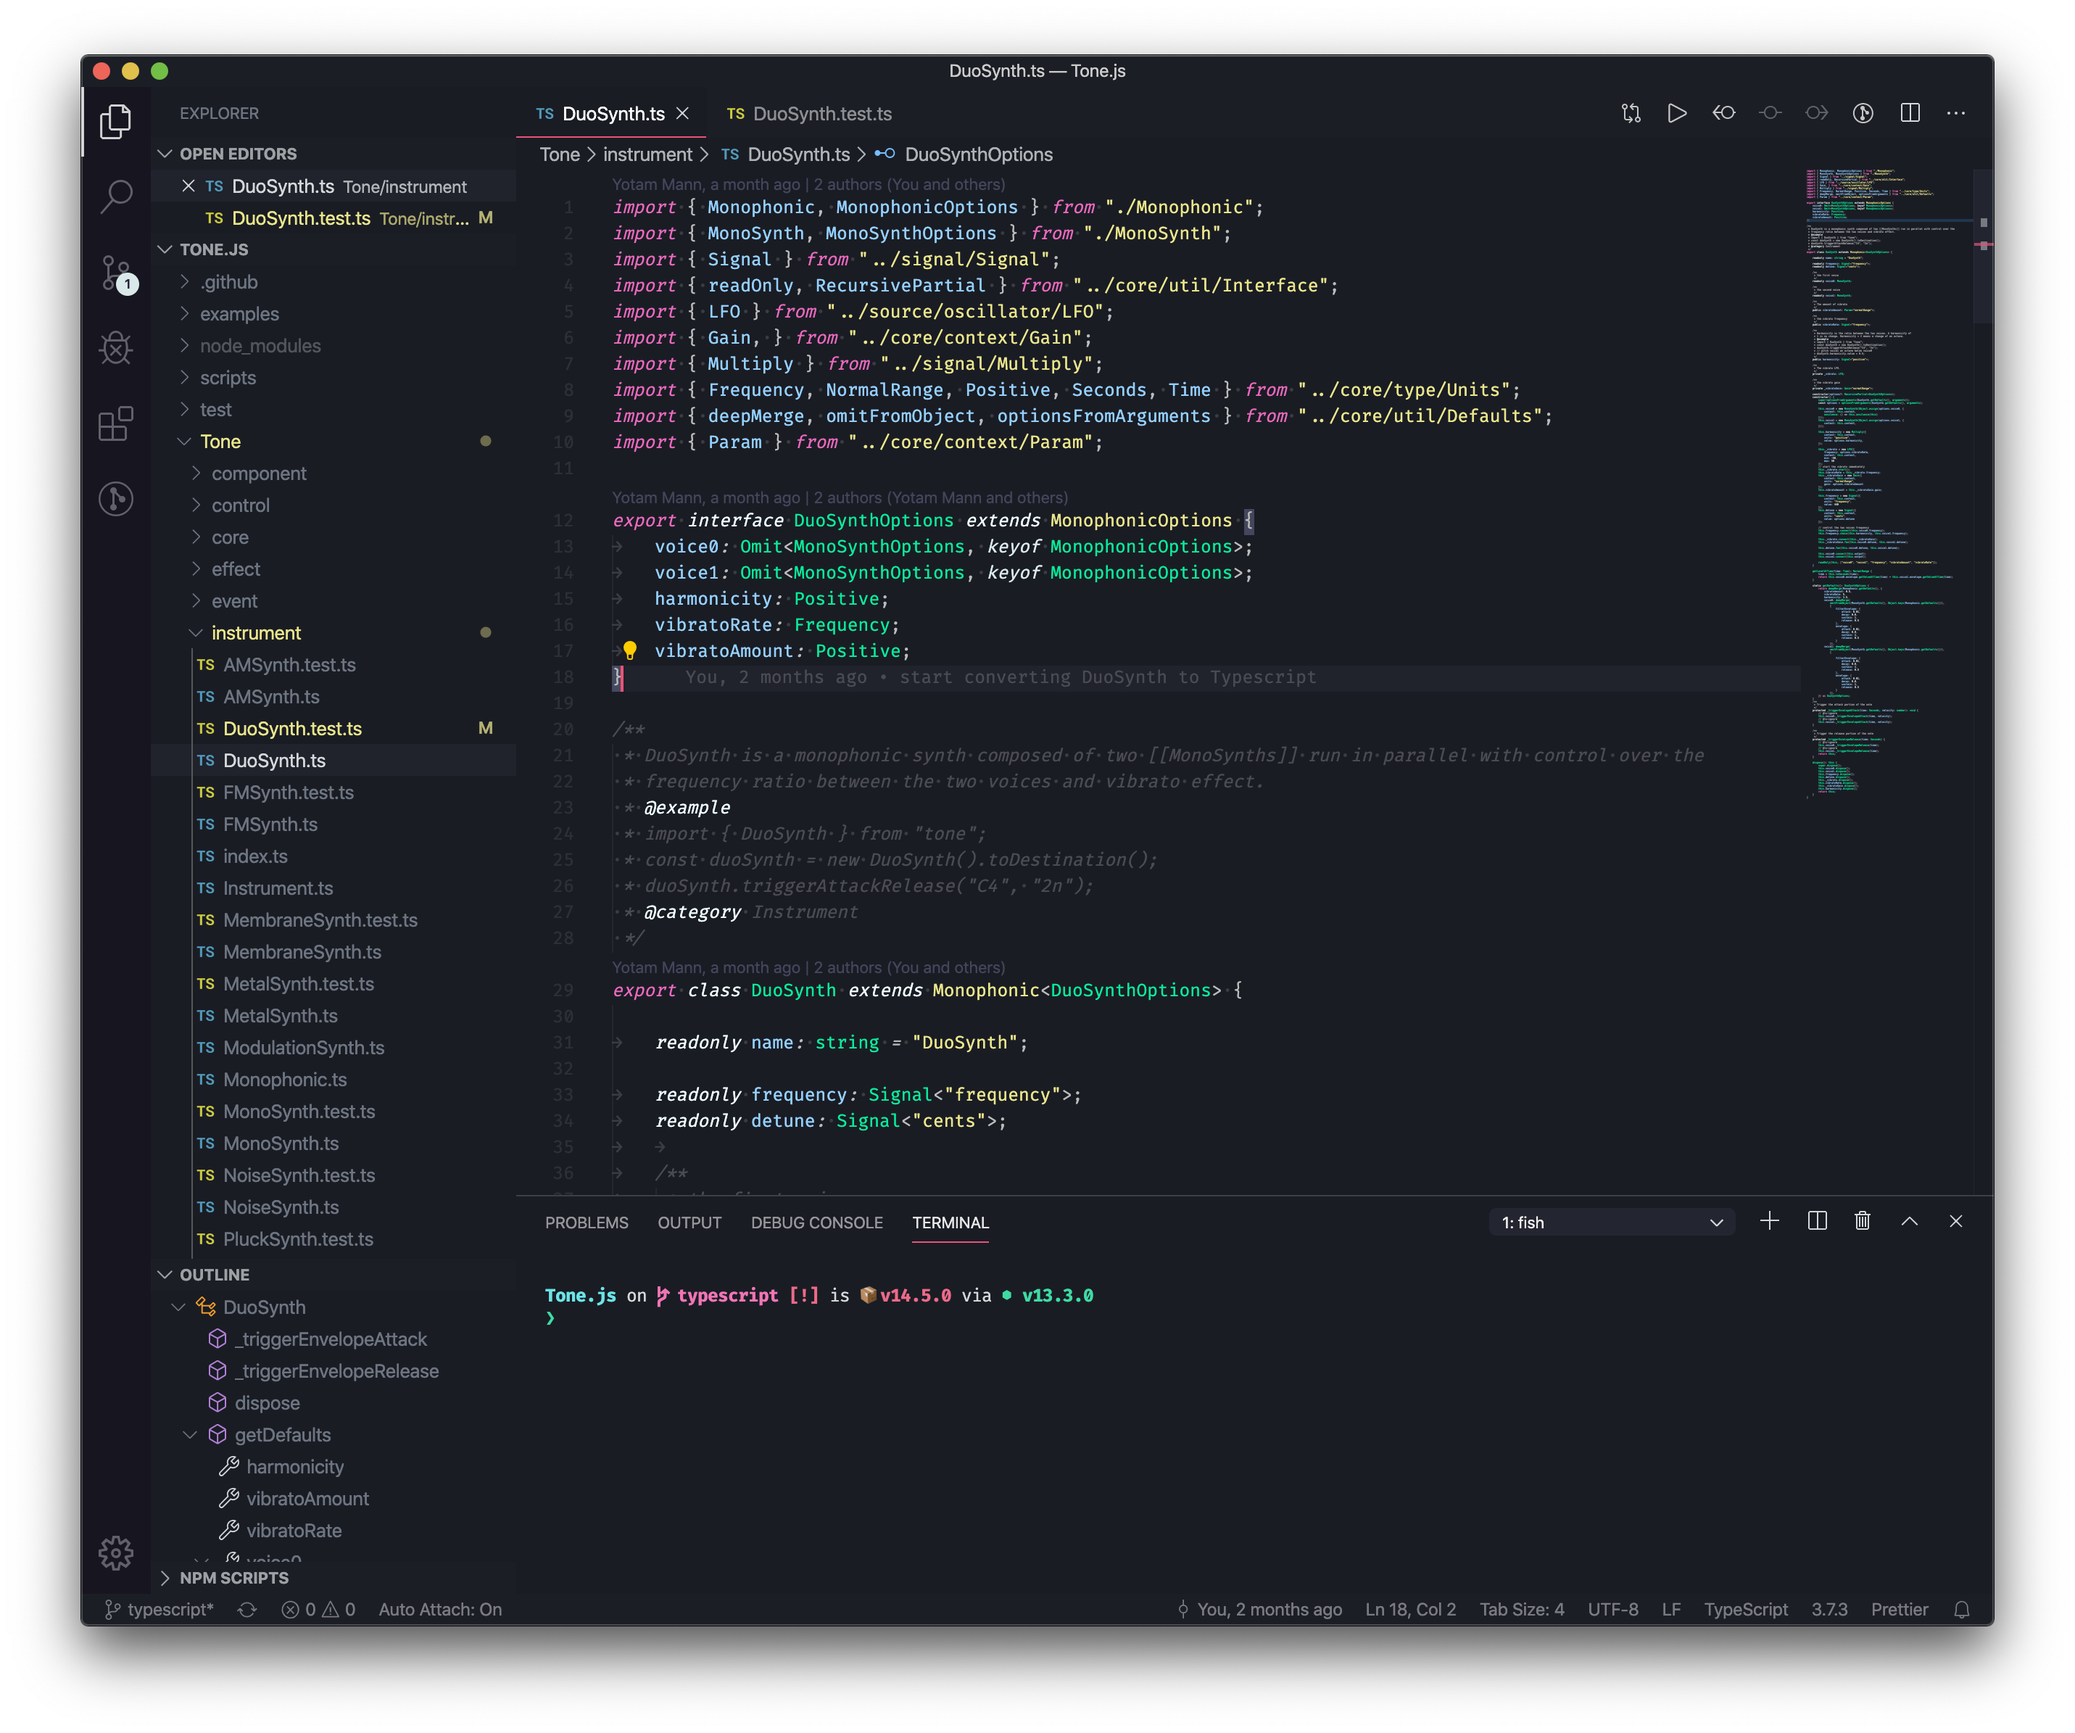
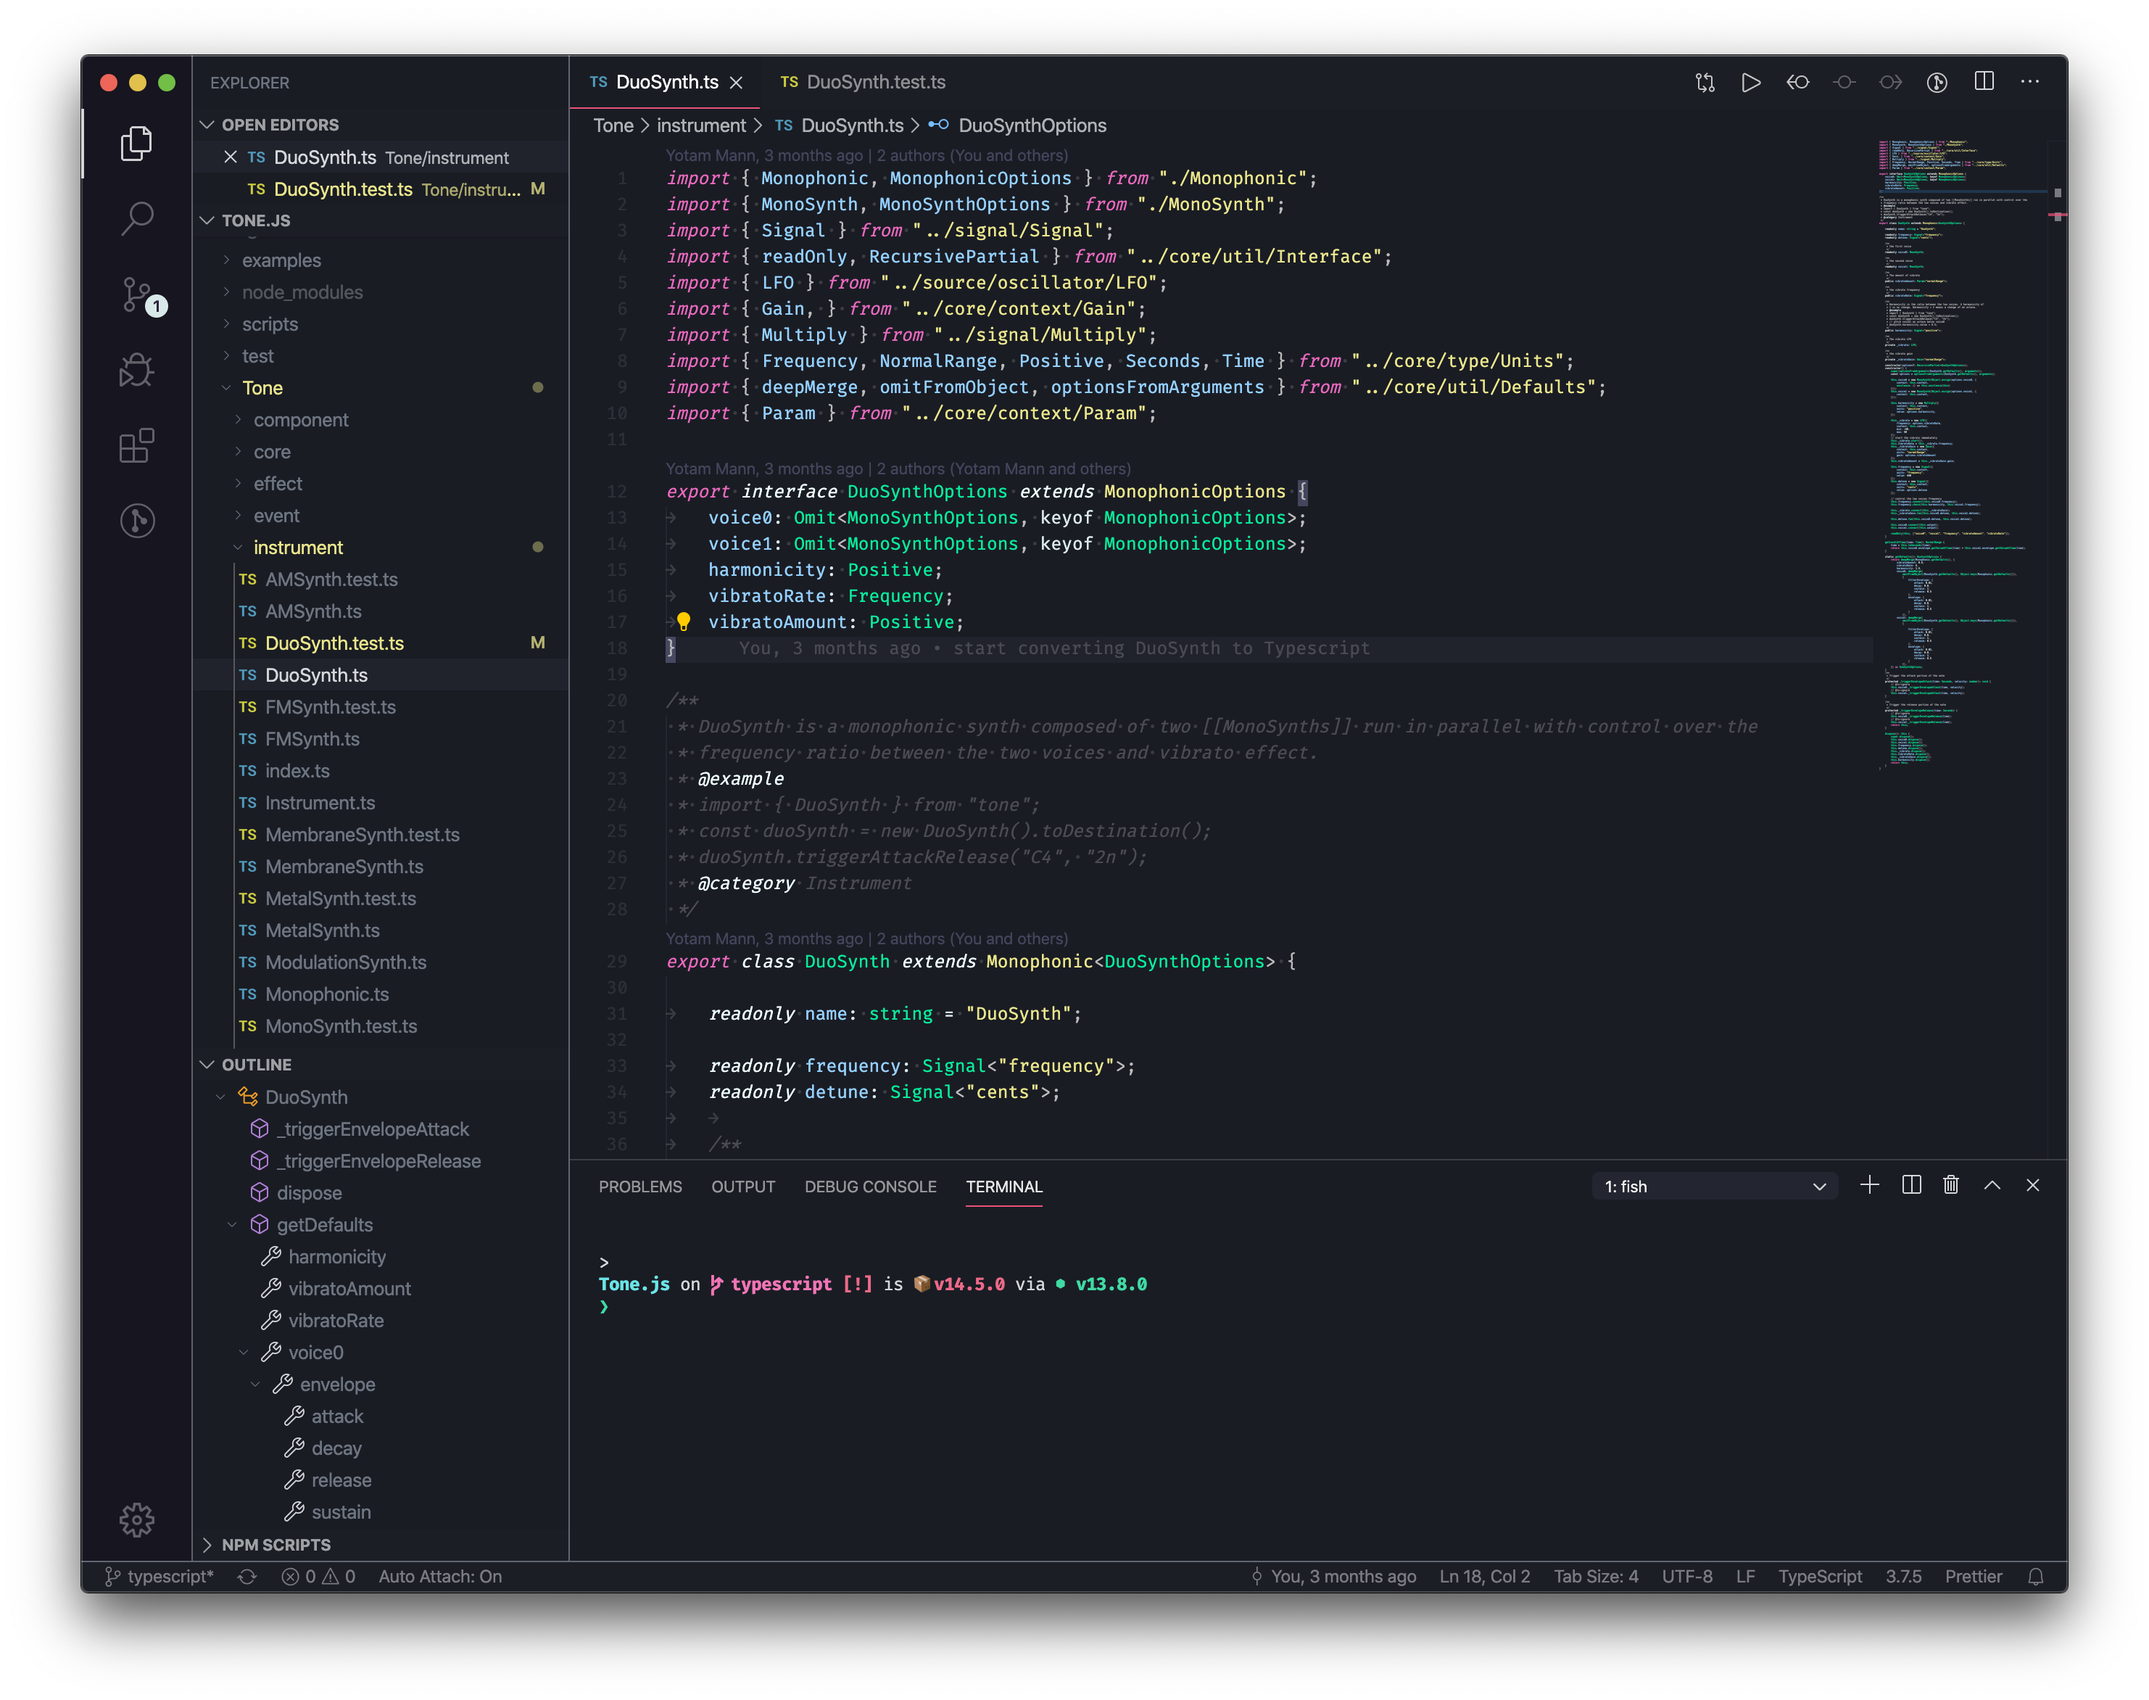
Replace preview with bordered theme + Customize UI

diff --git a/CHANGELOG.md b/CHANGELOG.md
@@ -7,3 +7,7 @@
 ## 0.1.1
 
 - Add bordered theme _(currently for italics only)_
+
+## 0.1.2
+
+- Replace preview image to show bordered theme + [Customize UI](https://marketplace.visualstudio.com/items?itemName=iocave.customize-ui)
